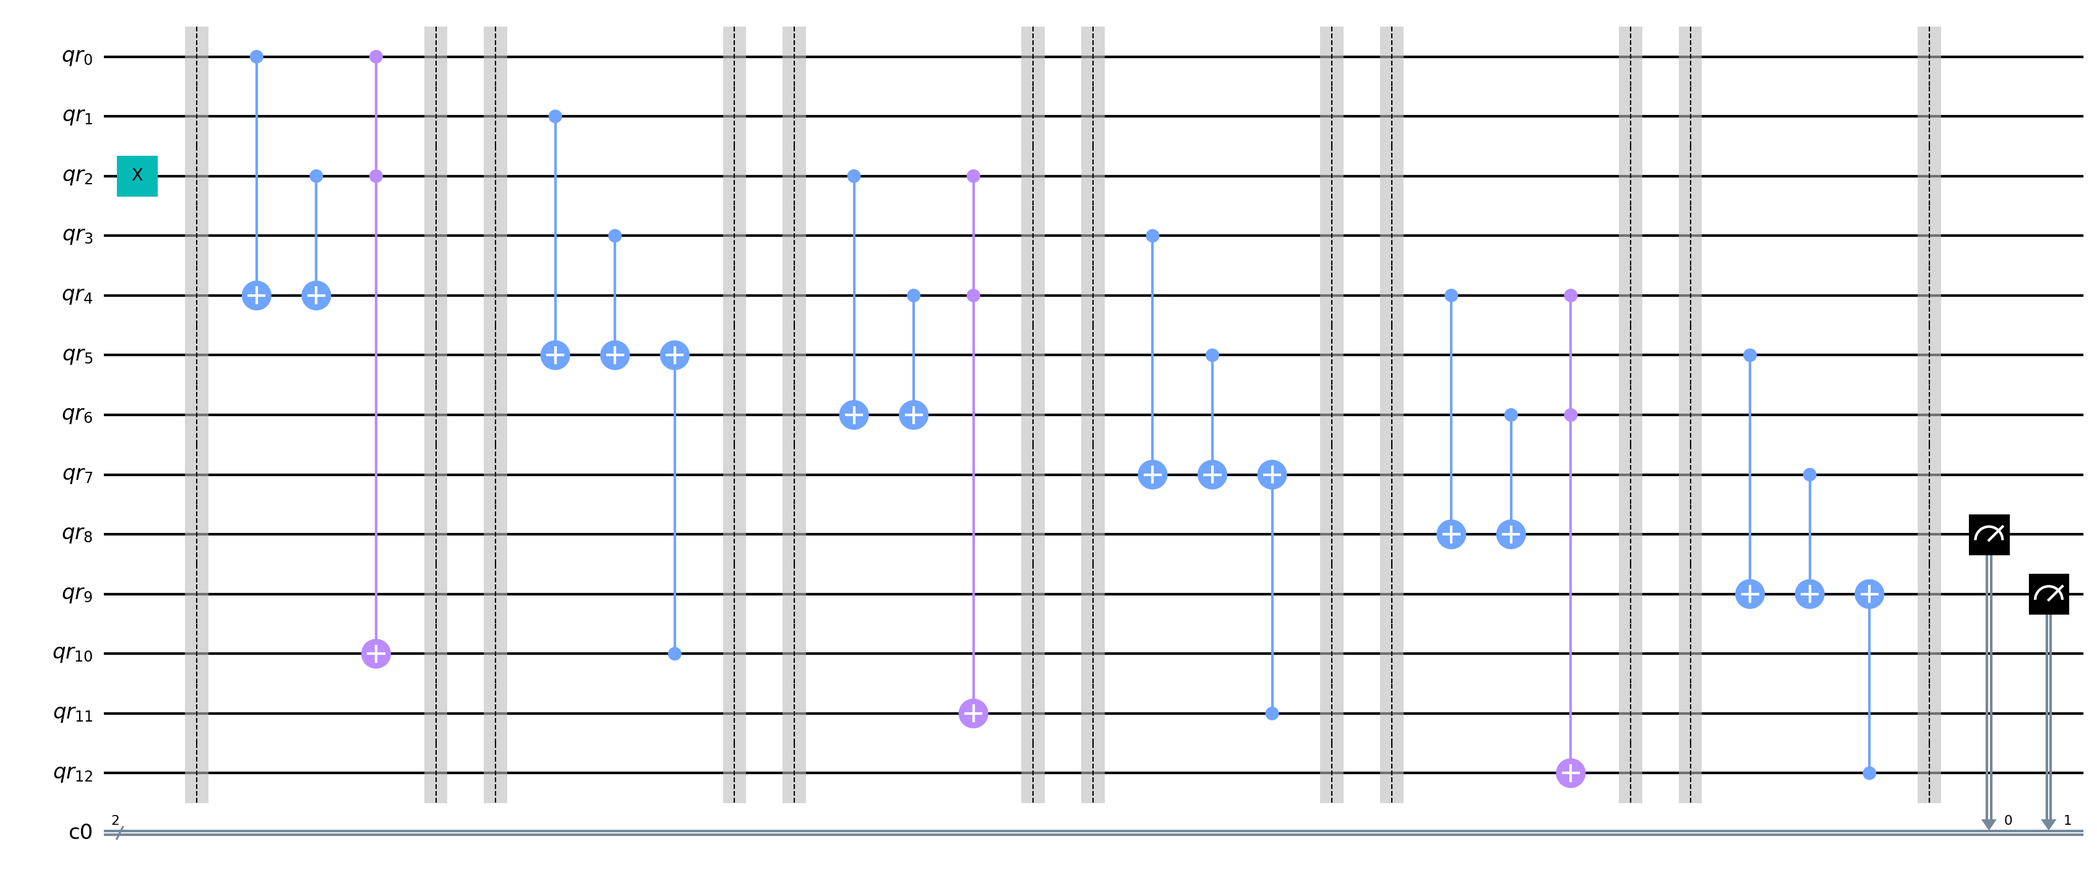
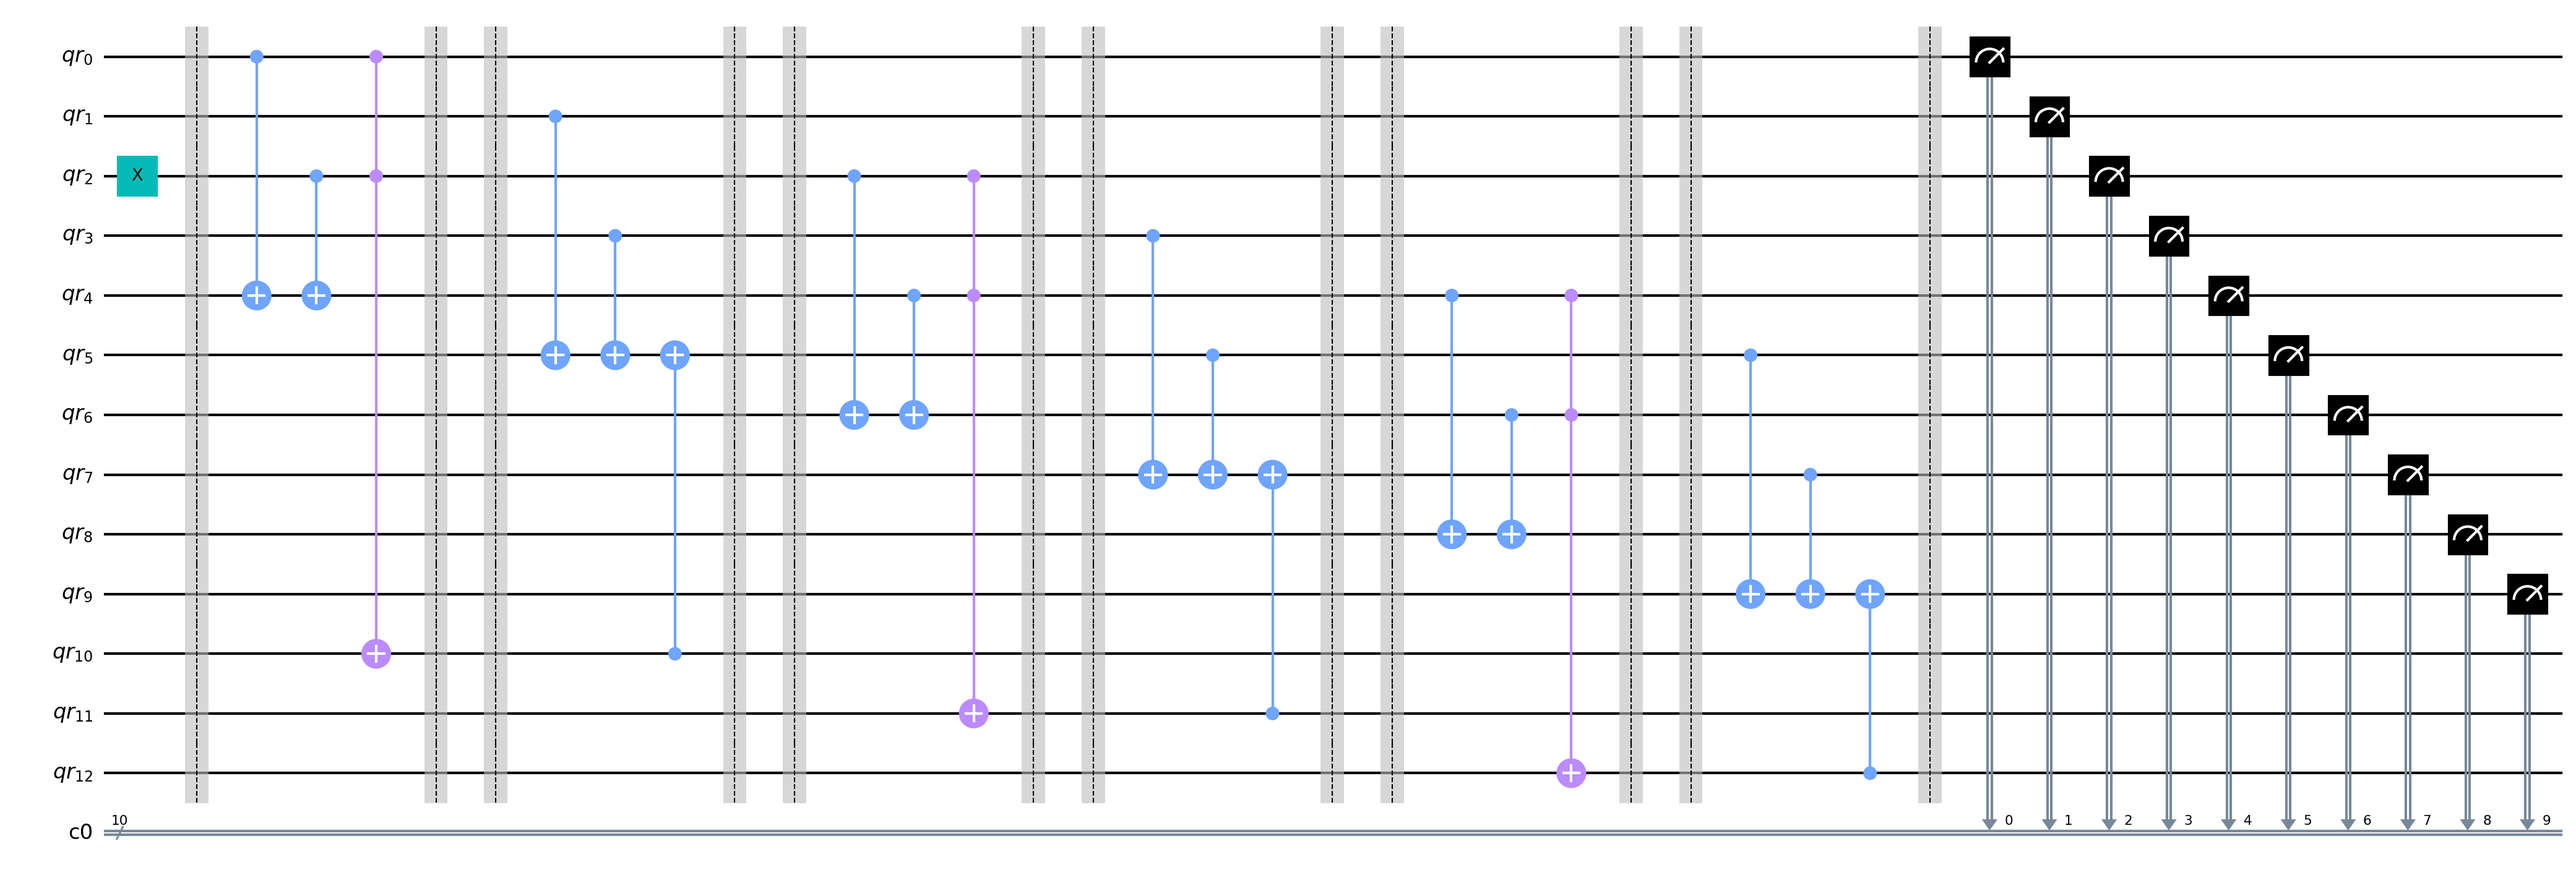
hitting GPT-4

Changed region(s): [[0.031, 0.031, 0.9912, 0.9606], [0.031, 0.9296, 0.0619, 0.9606]]

diff --git a/assembly_to_qiskit.py b/assembly_to_qiskit.py
@@ -111,7 +111,9 @@ allowed_operations = {
 }
 
 
-# classical_memory = []
+# TODO: create a precompiler that unravels branches
+def precompile(filename):
+    pass
 
 
 
@@ -181,7 +183,7 @@ def get_register_location(register_name, register_size, additional_flags):
 
     return [i for i in range(register*register_size + additional_flags, (register+1)*register_size + additional_flags)]
 
-def get_classical_register_location(register_name, register_size):
+def get_classical_register_location(register_size, register_name):
     register = int(register_name.replace('CR', ''))
 
     return [i for i in range(register*register_size, (register+1)*register_size)]
@@ -967,7 +969,7 @@ def SBC(qc, register_size, ancilla_counter, additional_flags, carry_flag_counter
 
 def STR(qc, cr, register_size, additional_flags, op1, op2, op3):
     # need to add offset capability
-    Rd = get_classical_register_location(op1, register_size)
+    Rd = get_classical_register_location(register_size, op1)
     Rn = get_register_location(op2, register_size, additional_flags)
 
     print('Rd (classical):', Rd)
@@ -1591,9 +1593,29 @@ def evaluate_instruction(instruction, qc, cr, in_oracle, register_size, ancilla_
 
 
 
+def decode(register_size, decoding, results):
+    if decoding is None:
+        print('Results:', results)
+        return
+
+    sorted_results = sorted(results.items(), key=lambda x: x[1], reverse=True)
+
+
+    for result in sorted_results:
+        print('# Measurements:', result[1])
+        for classical_register in decoding.keys():
+            print(decoding[classical_register], end=': ')
+            for i in reversed(get_classical_register_location(register_size, classical_register)):
+                print(result[0][::-1][i], end='')
+
+            print()
+
+
+
 def assembly_to_qiskit(assembly_program):
     parameters = get_parameters(assembly_program)
     register_size = parameters.get('register_size', 2)
+    decoding = parameters.get('decoding', None)
     run = parameters.get('run', True)
     instructions = get_instructions(assembly_program)
     name = assembly_program.split('.')[0]
@@ -1710,30 +1732,34 @@ def assembly_to_qiskit(assembly_program):
 
             
 
-    return qc, name, run
+    return qc, name, run, register_size, decoding
 
 
 
 if __name__ == '__main__':
-    qc, name, run = assembly_to_qiskit(sys.argv[1])
+    qc, name, run, register_size, decoding = assembly_to_qiskit(sys.argv[1])
 
     name = name.replace('assembly_programs/','').replace('operations/', '')
 
     qc.draw(output='mpl', filename='Figures/'+name+'_circuit.png', fold=140)
 
-    print(qc.num_qubits)
 
     if run:
         qasm_simulator = Aer.get_backend('qasm_simulator')
         shots = 1000
         results = execute(qc, backend=qasm_simulator, shots=shots).result()
         answer = results.get_counts()
+        
         print()
-        print(answer)
+        decode(register_size, decoding, answer)
+        print()
+
+
         hist = plot_histogram(answer)
         plt.savefig('Figures/'+name+'_hist.png')
 
 
+    print()
     plt.subplots_adjust(bottom=0.4)
     plt.show()
 

diff --git a/automatically_create_grovers.py b/automatically_create_grovers.py
@@ -1,0 +1,40 @@
+import assembly_to_qiskit
+import os
+from openai import AzureOpenAI
+import json
+
+def query_chatGPT(prompt):
+	secrets = None
+	with open('openai_secrets.txt', 'r') as file:
+		secrets = json.loads(file.readline())
+
+
+	client = AzureOpenAI(
+		api_key = secrets['api_key'],  
+		api_version = "2023-05-15",
+		azure_endpoint = secrets['endpoint']
+	)
+
+	response = client.chat.completions.create(
+		model=secrets['azure_oai_model'],
+		messages=[
+			{"role": "system", "content": "Assistant is a large language model trained by OpenAI."},
+			{"role": "user", "content": prompt}
+		]
+	)
+
+	return response.choices[0].message.content
+
+
+if __name__ == '__main__':
+	print(query_chatGPT('tell me a fact'))
+
+
+
+
+
+
+
+
+
+
